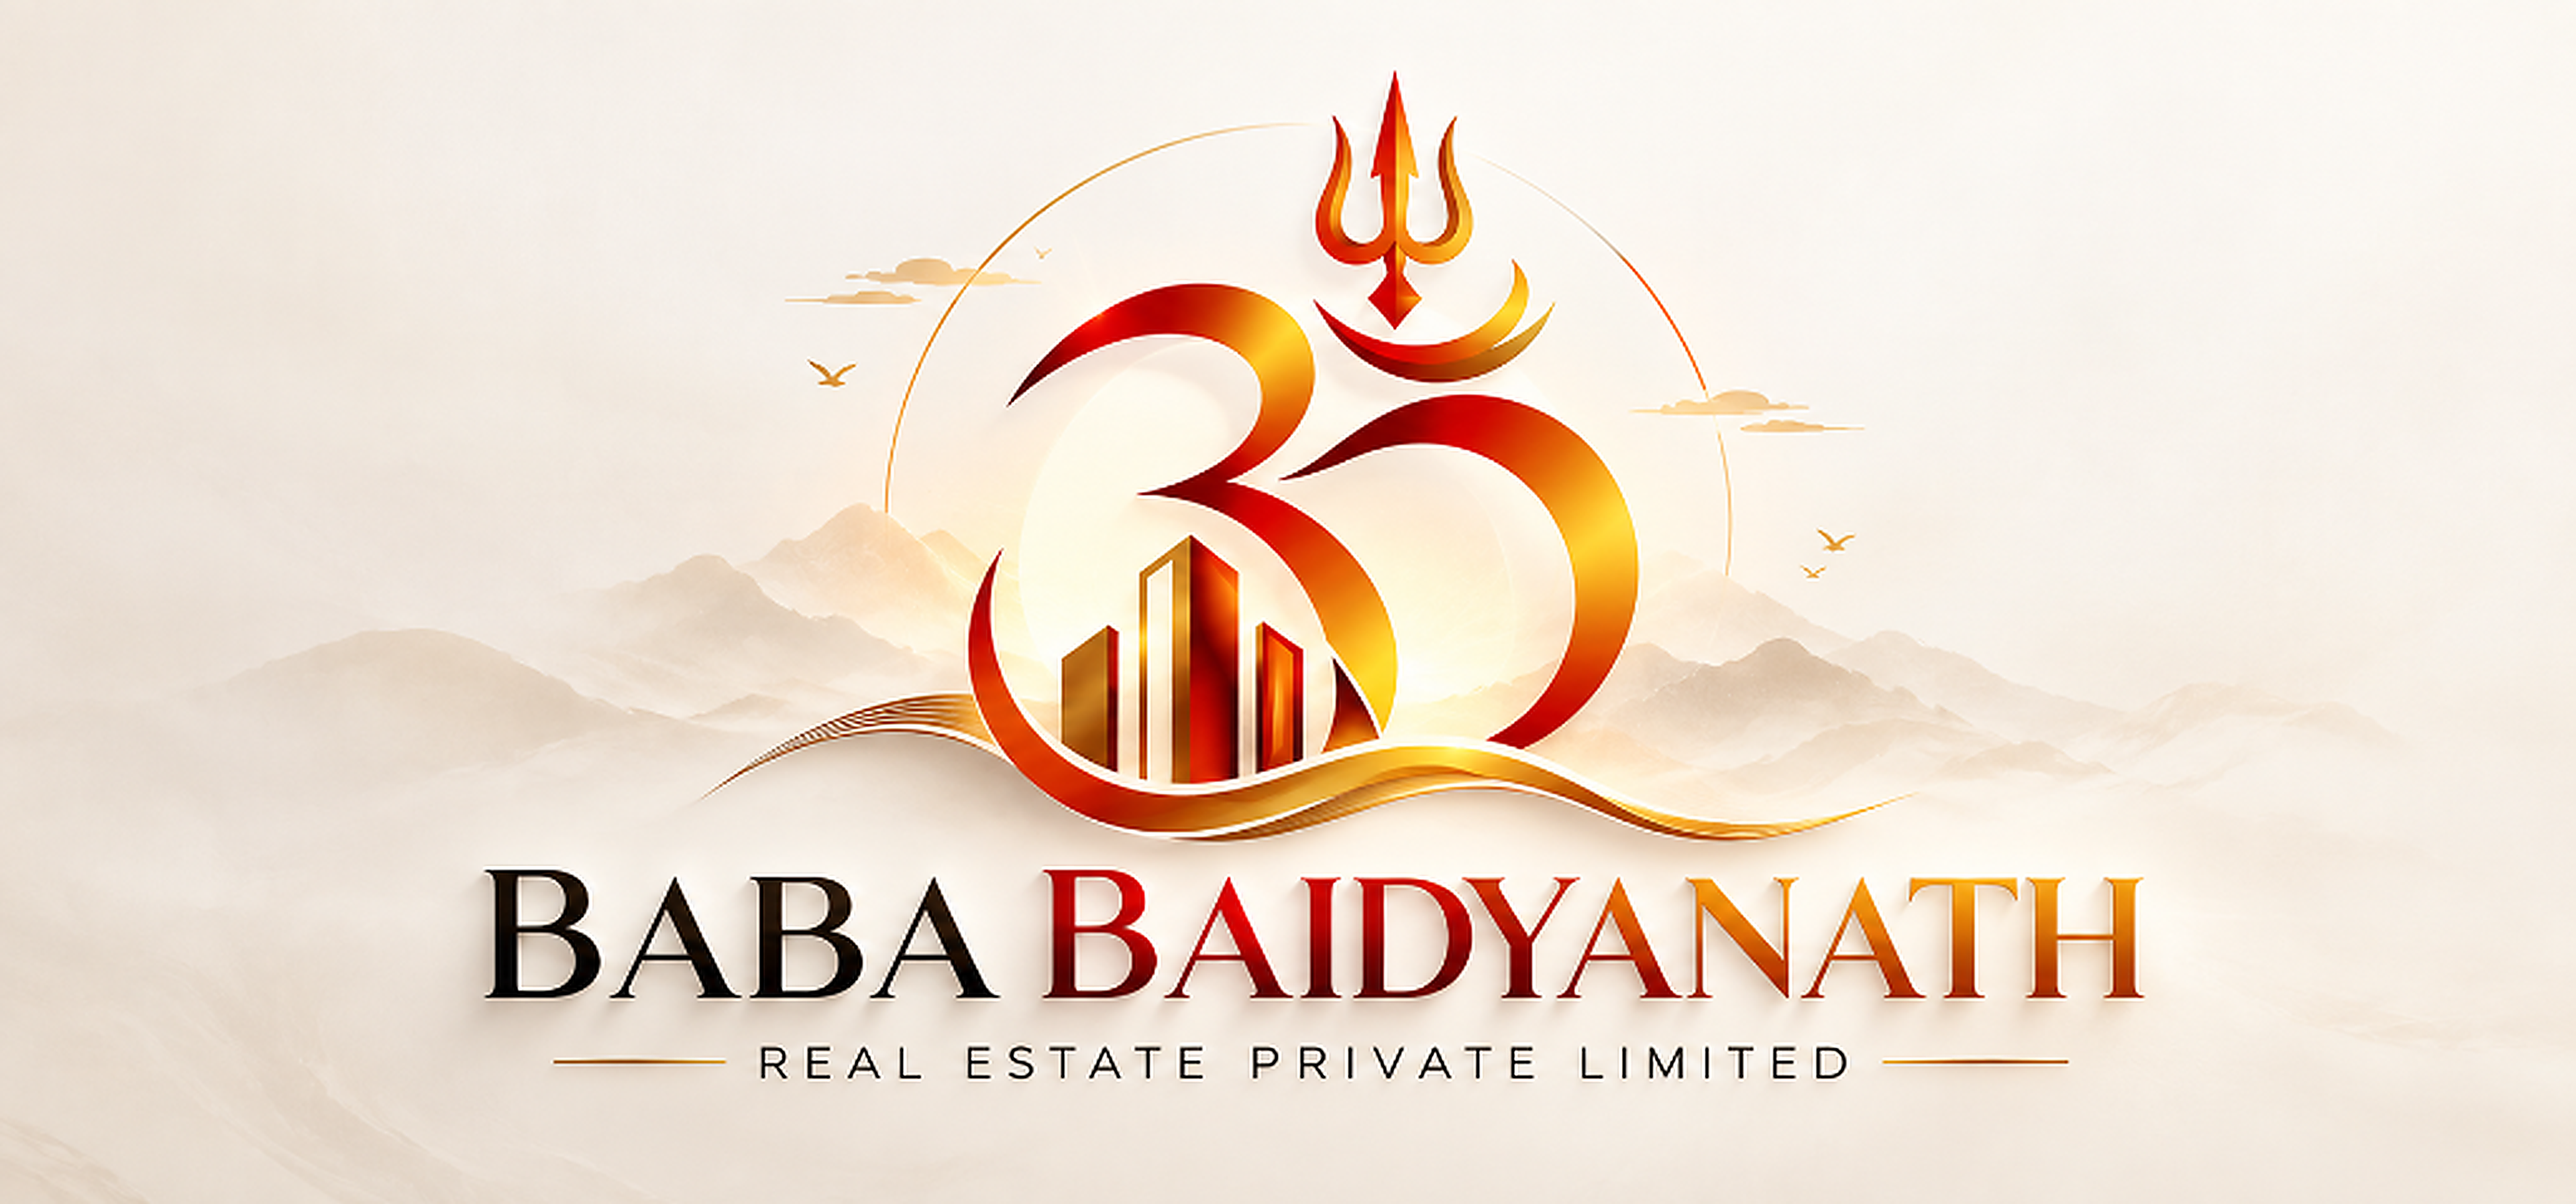
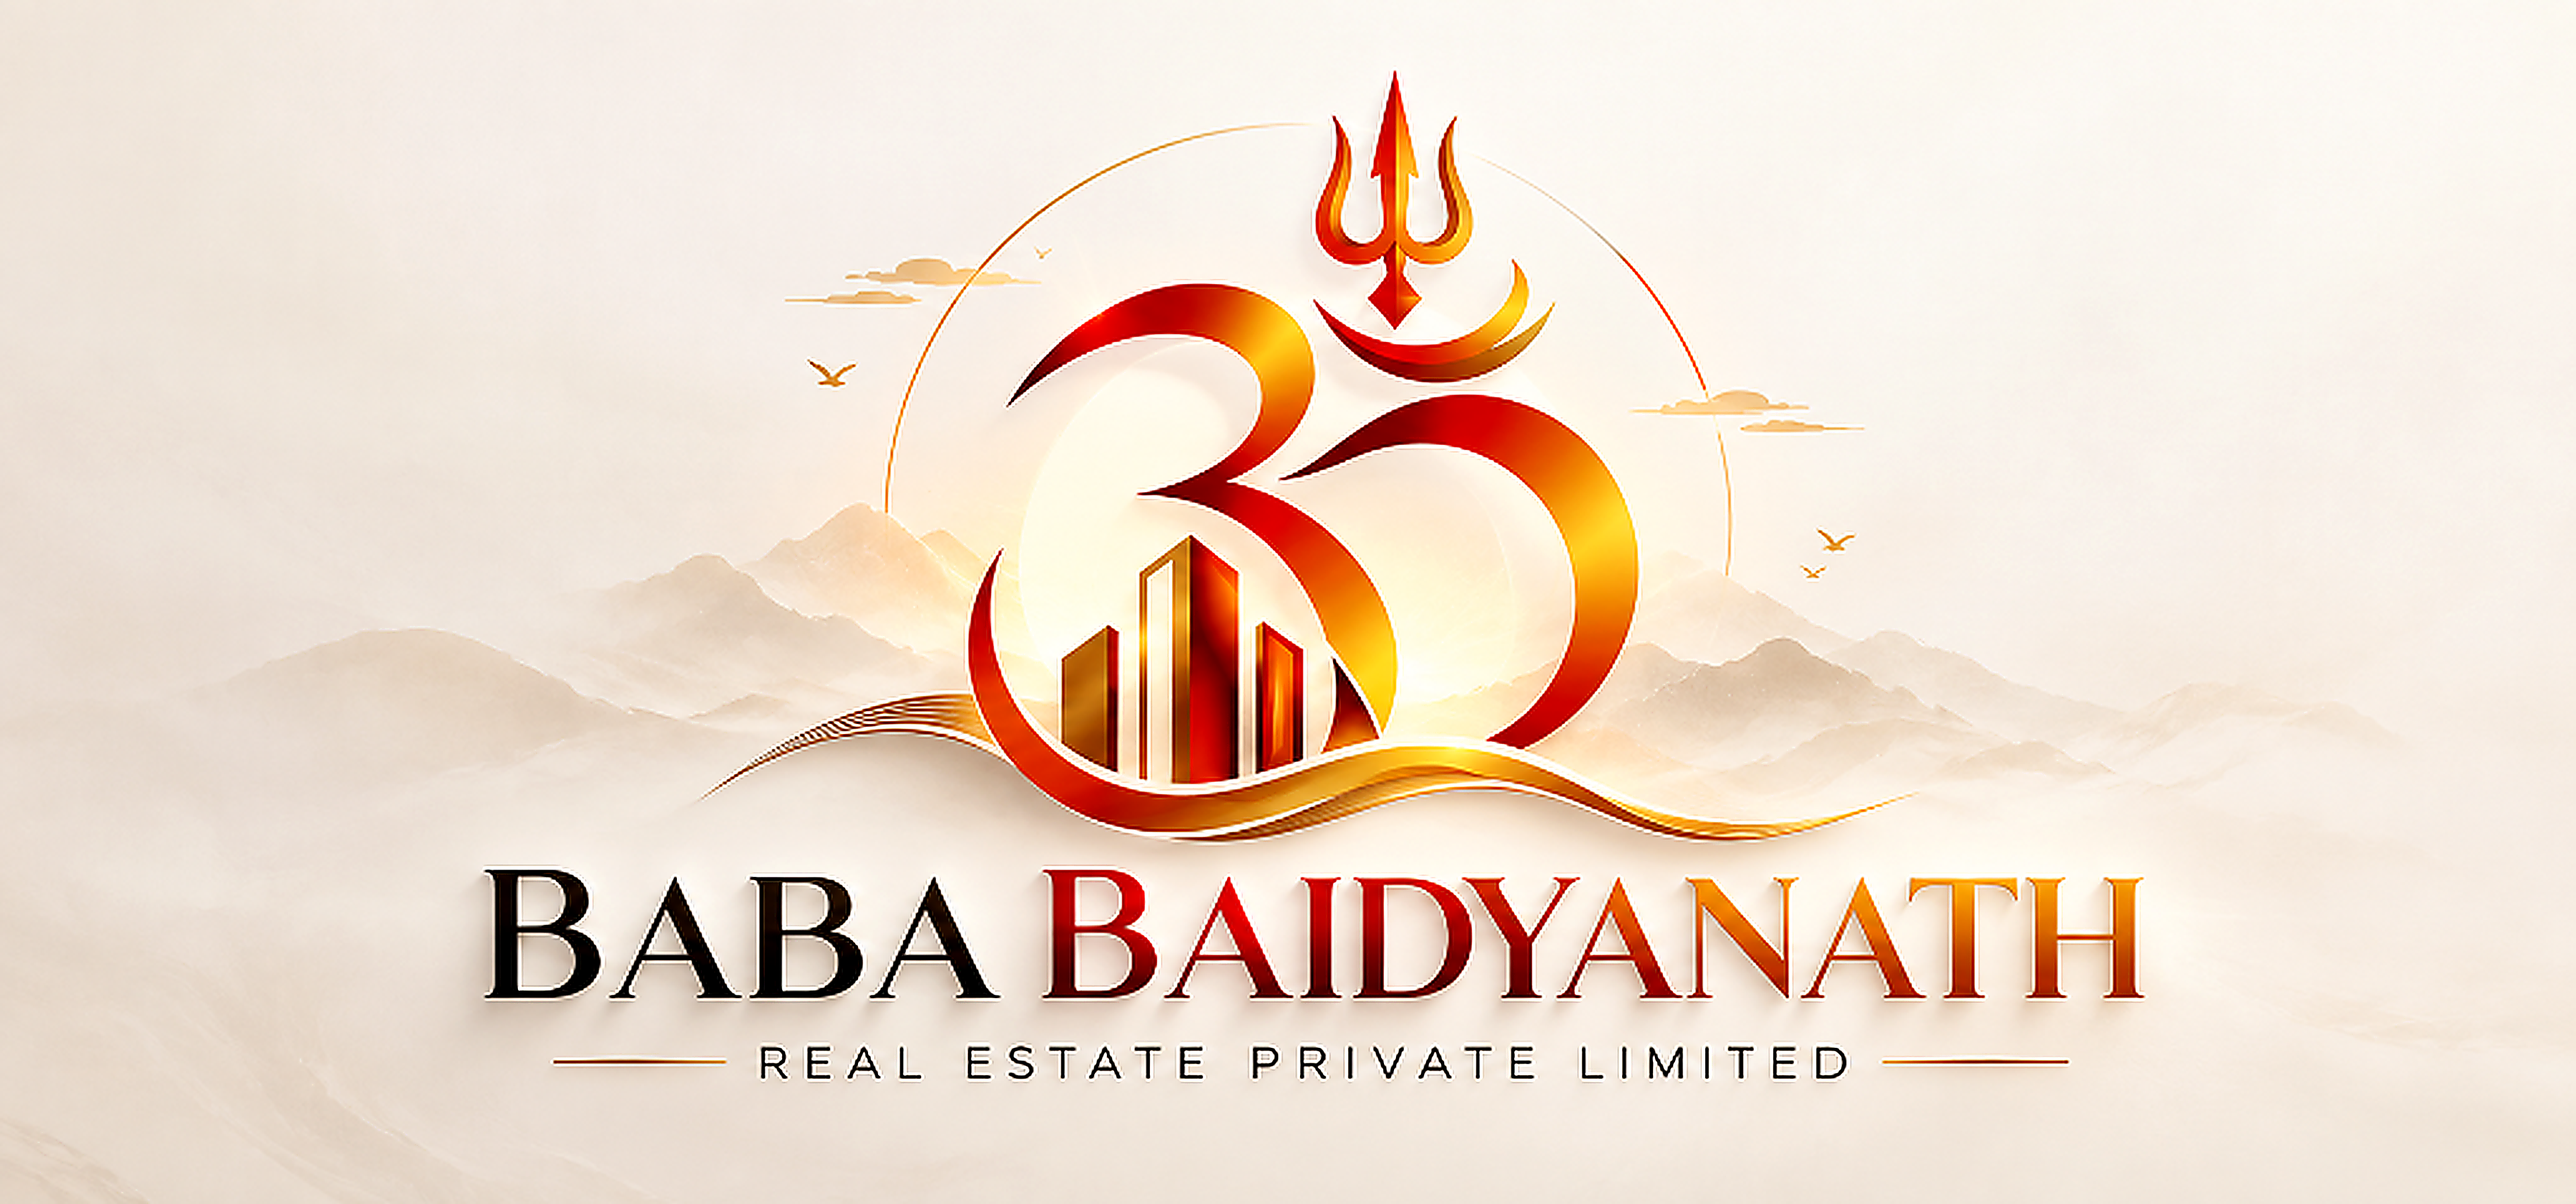
feat(about): make hero components fully transparent and enhance background image sharpness with multi-stage unsharp masking

diff --git a/baba-baidyanath-real-estate/src/components/company/AboutPage.tsx b/baba-baidyanath-real-estate/src/components/company/AboutPage.tsx
@@ -40,81 +40,80 @@ export const AboutPage: React.FC<AboutPageProps> = ({ onOpenEnquiry }) => {
           {/* Main Hero Container with 4K Photo Clear in Background */}
           <div className="relative w-full rounded-3xl sm:rounded-[2.5rem] overflow-hidden min-h-[560px] sm:min-h-[620px] md:min-h-[680px] lg:min-h-[740px] border border-[#E8E2D5] shadow-[0_25px_70px_rgba(40,25,10,0.08)] flex flex-col justify-between p-5 sm:p-8 md:p-12 lg:p-14 transition-all">
             
-            {/* The 4K Photo Clear & Unhindered in the Background */}
-            <div className="absolute inset-0 -z-10 bg-[#FAF6F0] overflow-hidden flex items-center justify-center">
+            {/* The 4K Photo Clear & Razor Sharp in the Background */}
+            <div className="absolute inset-0 -z-10 bg-[#FAF6F0] overflow-hidden">
               <img
                 src={aboutHeroBg}
                 alt="Baba Baidyanath Real Estate 4K Master Artwork"
-                className="w-full h-full object-cover sm:object-contain object-center select-none"
-                style={{ imageRendering: 'auto' }}
+                className="w-full h-full object-cover object-center select-none"
+                style={{ 
+                  imageRendering: '-webkit-optimize-contrast',
+                  filter: 'contrast(1.05) brightness(1.01)'
+                }}
                 loading="eager"
                 decoding="async"
               />
             </div>
 
-            {/* Top Bar Written Over Photo: Transparent Lucid Glass Chips */}
+            {/* Top Bar Written Over Photo: Fully Transparent Badges */}
             <div className="relative z-10 flex flex-wrap items-center justify-between gap-3">
-              <div className="inline-flex items-center gap-2.5 px-4 py-2 rounded-full bg-white/30 backdrop-blur-md border border-white/50 shadow-[0_4px_16px_rgba(0,0,0,0.05)]">
+              <div className="inline-flex items-center gap-2.5 px-3.5 py-1.5 rounded-full bg-black/10 border border-black/15 shadow-sm">
                 <span className="relative flex h-2 w-2">
                   <span className="animate-ping absolute inline-flex h-full w-full rounded-full bg-emerald-500 opacity-75" />
                   <span className="relative inline-flex rounded-full h-2 w-2 bg-emerald-600" />
                 </span>
-                <span className="font-mono text-xs font-bold text-[#151311] tracking-wider uppercase drop-shadow-[0_1px_1px_rgba(255,255,255,0.8)]">
+                <span className="font-mono text-xs font-bold text-[#151311] tracking-wider uppercase">
                   CIN: {COMPANY_DATA.cin}
                 </span>
                 <span className="text-xs text-[#78716C]">&bull;</span>
-                <span className="font-mono text-xs font-bold text-emerald-800 bg-emerald-500/20 px-2 py-0.5 rounded-full border border-emerald-600/30">
+                <span className="font-mono text-xs font-bold text-emerald-900 bg-emerald-500/25 px-2 py-0.5 rounded-full border border-emerald-700/30">
                   Active / RoC Patna
                 </span>
               </div>
 
-              <div className="hidden sm:inline-flex items-center gap-2 px-4 py-2 rounded-full bg-white/30 backdrop-blur-md border border-white/50 shadow-[0_4px_16px_rgba(0,0,0,0.05)] font-mono text-xs font-bold text-[#151311] drop-shadow-[0_1px_1px_rgba(255,255,255,0.8)]">
+              <div className="hidden sm:inline-flex items-center gap-2 px-3.5 py-1.5 rounded-full bg-black/10 border border-black/15 font-mono text-xs font-bold text-[#151311] shadow-sm">
                 <Building2 className="w-3.5 h-3.5 text-[#B45309]" />
                 <span>Incorporated 7 Nov 2024 &bull; Bihar</span>
               </div>
             </div>
 
-            {/* Bottom Content Over Photo: Ultra-Transparent Lucid Glass (Photo Completely Visible Behind It) */}
-            <div className="relative z-10 max-w-2xl mt-auto pt-14">
-              <div className="bg-white/28 backdrop-blur-md border border-white/60 rounded-3xl p-5 sm:p-8 shadow-[0_15px_40px_rgba(0,0,0,0.08)] space-y-3.5">
-                
-                <div className="inline-flex items-center gap-2 px-3 py-1 rounded-full bg-amber-500/15 backdrop-blur-sm border border-amber-600/30 text-xs text-[#78350F] font-bold tracking-wide">
-                  <Sparkles className="w-3.5 h-3.5 text-[#B45309]" />
-                  <span>Corporate Heritage &bull; Institutional Standards</span>
-                </div>
+            {/* Bottom Content Over Photo: Completely Transparent (No Card, No Blur, Photo 100% Uncovered Behind It) */}
+            <div className="relative z-10 max-w-2xl mt-auto pt-10 sm:pt-14 space-y-4 bg-transparent border-0 shadow-none p-0">
+              <div className="inline-flex items-center gap-2 px-3.5 py-1.5 rounded-full bg-[#B45309]/15 border border-[#B45309]/30 text-xs text-[#78350F] font-bold tracking-wide shadow-sm">
+                <Sparkles className="w-3.5 h-3.5 text-[#B45309]" />
+                <span>Corporate Heritage &bull; Institutional Standards</span>
+              </div>
 
-                <h1 className="font-serif text-2xl sm:text-4xl lg:text-5xl font-bold text-[#151311] tracking-tight leading-[1.15] drop-shadow-[0_1px_2px_rgba(255,255,255,0.85)]">
-                  Built On Sacred Values.<br />
-                  <span className="bg-gradient-to-r from-[#991B1B] via-[#B45309] to-[#D97706] bg-clip-text text-transparent drop-shadow-none">
-                    Committed to Lasting Value.
-                  </span>
-                </h1>
+              <h1 className="font-serif text-3xl sm:text-4xl lg:text-5xl font-extrabold text-[#151311] tracking-tight leading-[1.15]">
+                Built On Sacred Values.<br />
+                <span className="bg-gradient-to-r from-[#991B1B] via-[#B45309] to-[#C2410C] bg-clip-text text-transparent">
+                  Committed to Lasting Value.
+                </span>
+              </h1>
 
-                <p className="text-xs sm:text-sm md:text-base text-[#1C1917] leading-relaxed font-medium drop-shadow-[0_1px_2px_rgba(255,255,255,0.9)]">
-                  Baba Baidyanath Real Estate Private Limited was founded to bring uncompromising corporate governance, verifiable land due diligence, and absolute transparency to real estate development in Aurangabad and emerging growth corridors across Bihar.
-                </p>
+              <p className="text-xs sm:text-sm md:text-base text-[#1C1917] leading-relaxed font-semibold max-w-xl">
+                Baba Baidyanath Real Estate Private Limited was founded to bring uncompromising corporate governance, verifiable land due diligence, and absolute transparency to real estate development in Aurangabad and emerging growth corridors across Bihar.
+              </p>
 
-                {/* Overlaid Transparent Lucid Buttons */}
-                <div className="flex flex-wrap items-center gap-3 pt-2">
-                  {onOpenEnquiry && (
-                    <button
-                      onClick={onOpenEnquiry}
-                      className="px-6 py-3 rounded-full bg-gradient-to-r from-[#B45309] via-[#D97706] to-[#B45309] text-white font-bold text-xs uppercase tracking-[0.14em] cursor-pointer inline-flex items-center gap-2 hover:scale-[1.02] shadow-[0_6px_20px_rgba(180,83,9,0.35)] transition-all border border-amber-300/40"
-                    >
-                      <Sparkles className="w-4 h-4 text-amber-200" />
-                      <span>Direct Consultation</span>
-                    </button>
-                  )}
-
+              {/* Overlaid Transparent Action Buttons */}
+              <div className="flex flex-wrap items-center gap-3 pt-2">
+                {onOpenEnquiry && (
                   <button
-                    onClick={scrollToDossier}
-                    className="px-5 py-3 rounded-full bg-white/40 hover:bg-white/60 text-[#151311] border border-white/70 text-xs font-bold uppercase tracking-wider backdrop-blur-md transition-all inline-flex items-center gap-1.5 cursor-pointer shadow-sm hover:border-[#B45309]"
+                    onClick={onOpenEnquiry}
+                    className="px-6 py-3 rounded-full bg-gradient-to-r from-[#B45309] via-[#D97706] to-[#B45309] text-white font-bold text-xs uppercase tracking-[0.14em] cursor-pointer inline-flex items-center gap-2 hover:scale-[1.02] shadow-[0_6px_20px_rgba(180,83,9,0.35)] transition-all border border-amber-300/40"
                   >
-                    <span>View Statutory Dossier</span>
-                    <ArrowRight className="w-3.5 h-3.5 text-[#B45309]" />
+                    <Sparkles className="w-4 h-4 text-amber-200" />
+                    <span>Direct Consultation</span>
                   </button>
-                </div>
+                )}
 
+                <button
+                  onClick={scrollToDossier}
+                  className="px-5 py-3 rounded-full bg-black/10 hover:bg-black/20 text-[#151311] border border-black/20 text-xs font-bold uppercase tracking-wider transition-all inline-flex items-center gap-1.5 cursor-pointer shadow-sm hover:border-[#B45309]"
+                >
+                  <span>View Statutory Dossier</span>
+                  <ArrowRight className="w-3.5 h-3.5 text-[#B45309]" />
+                </button>
               </div>
             </div>
 
